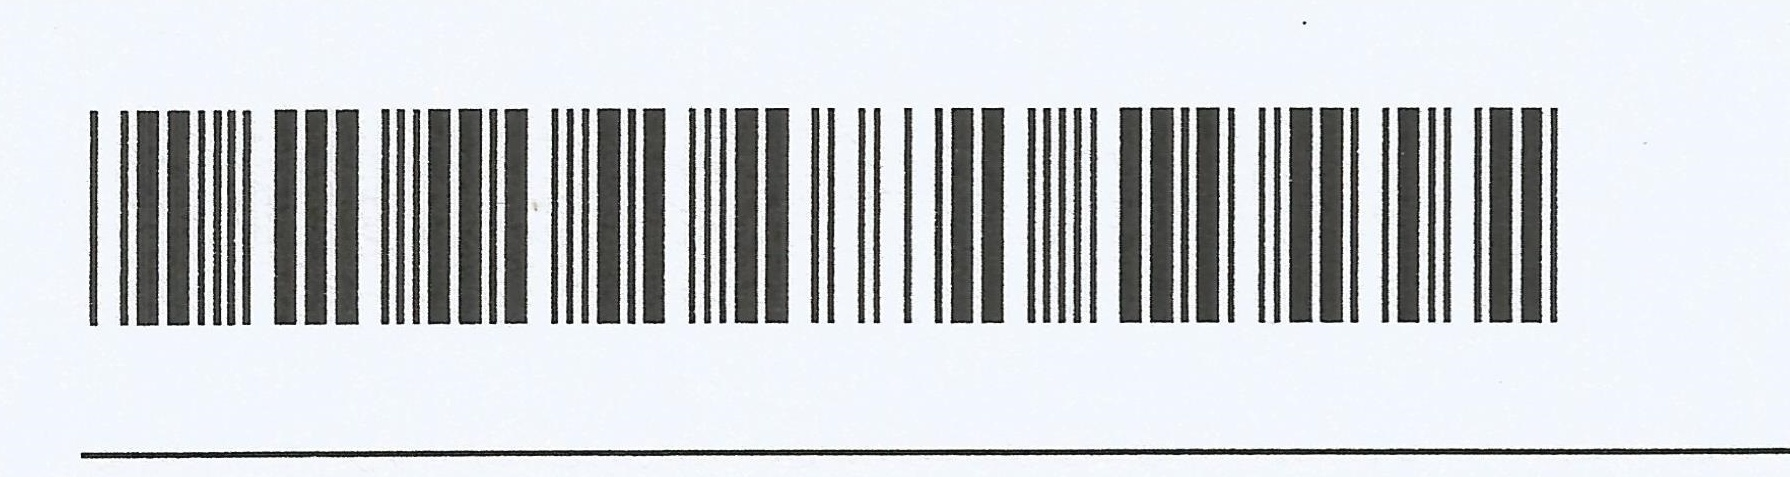
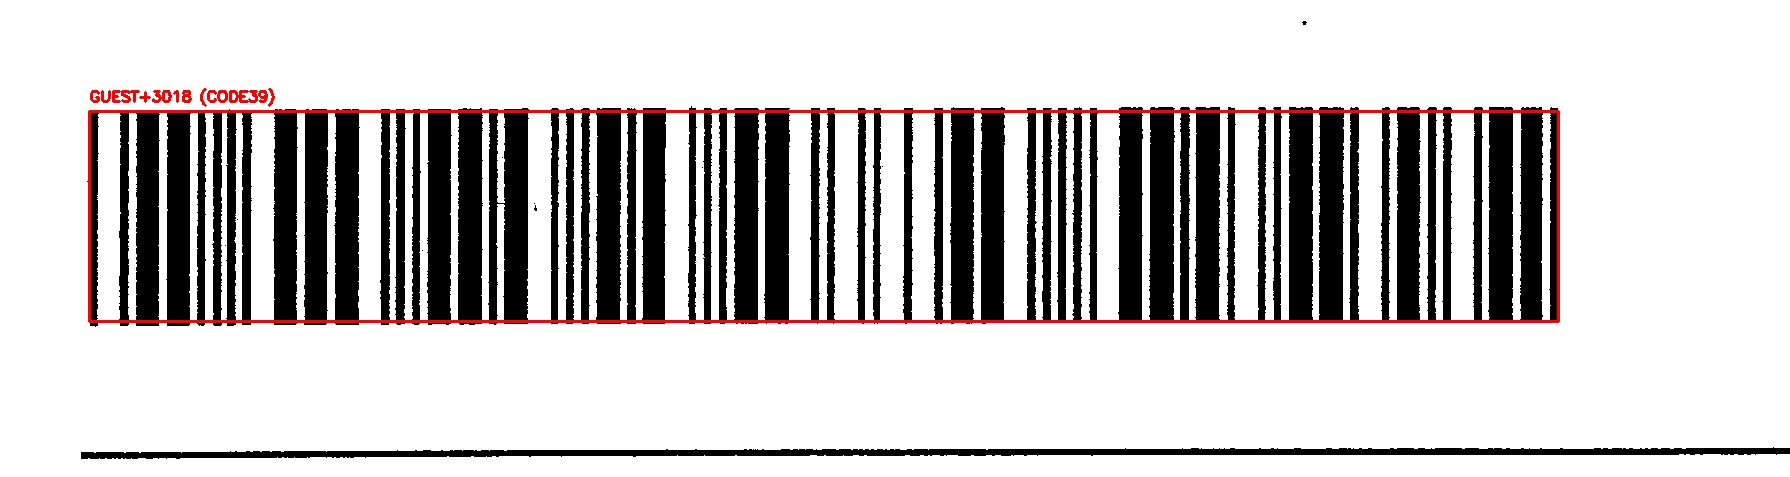
ADD version 0.2 barcodes

Changed region(s): [[0.0307, 0.1761, 0.8911, 0.7044], [0.0307, 0.9392, 1.0, 0.9686]]

diff --git a/lib_card.py b/lib_card.py
@@ -106,11 +106,14 @@ def barcod(image):
     barcodeData = ''
     #print('barcodes',barcodes)
     if not barcodes:
+        #https://stackoverflow.com/questions/50080949/qr-code-detection-from-pyzbar-with-camera-image
         mask = cv2.inRange(image,(0,0,0),(200,200,200))
+        cv2.imwrite('cut/mask.jpg',mask) 
         thresholded = cv2.cvtColor(mask,cv2.COLOR_GRAY2BGR)
-        inverted = 255-thresholded # black-in-white
+        image = 255-thresholded # black-in-white
+        cv2.imwrite('cut/fliped.jpg',image) 
 
-        barcodes = pyzbar.decode(inverted)
+        barcodes = pyzbar.decode(image)        
         print('fliped barcodes')#,barcodes)
 
     # loop over the detected barcodes
@@ -130,6 +133,7 @@ def barcod(image):
         cv2.putText(image, text, (x, y - 10), cv2.FONT_HERSHEY_SIMPLEX, 0.5, (0, 0, 255), 2)
     
         # print the barcode type and data to the terminal
+        cv2.imwrite('cut/bar_cod.jpg',image) 
         print("[INFO] Found {} barcode: {}".format(barcodeType, barcodeData))
 
     return barcodeData    

diff --git a/point.py b/point.py
@@ -1,5 +1,5 @@
 # USAGE
-# python point.py --image real.jpg --path points/ --pointer point.png --pointer1 point1.png
+# python point.py --pointer point.png --pointer1 point1.png
 from imutils.perspective import four_point_transform
 from imutils import contours
 from pyzbar import pyzbar
